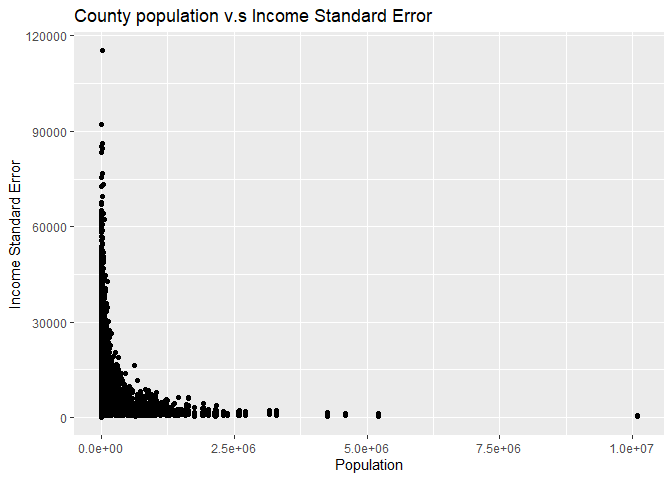
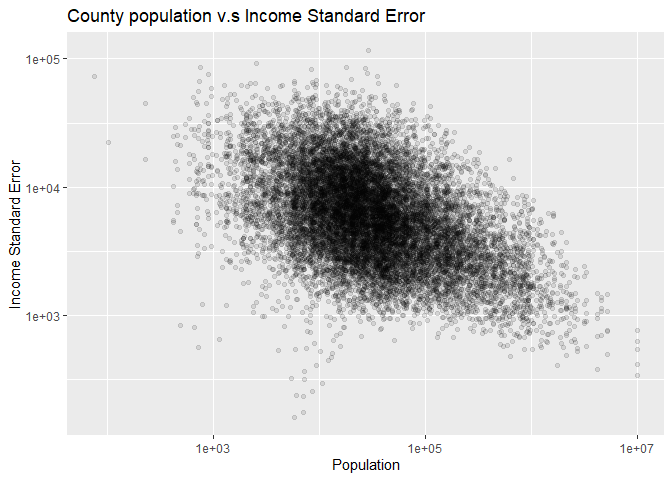
revised challenge 9

diff --git a/challenges/c09-income-assignment.md b/challenges/c09-income-assignment.md
@@ -583,7 +583,9 @@ and uncertainty.
 ``` r
 df_data %>%
   ggplot() +
-  geom_point(mapping = aes(x = population_estimate, y = income_SE)) +
+  geom_point(mapping = aes(x = population_estimate, y = income_SE), alpha=0.1) +
+  scale_y_log10() + 
+  scale_x_log10() +
   ggtitle("County population v.s Income Standard Error") + 
   labs(
     x = "Population",
@@ -601,13 +603,14 @@ df_data %>%
     we see. We see an exponential decay relationship where the higher
     the population, the rate of the decline of income SE increases.
     First of all, the equation for Standard Error is SE =
-    Standard_deviation/sqrt(n) with n = number of samples. With
-    population (n) increasing, the SE curve would take this shape. This
-    trend makes senses because we have more data in larger counties when
-    we calculate mean household income. More data means that we are able
-    to reduce uncertainty more in our calculation. If we have a
-    population with less people, there’s a higher chance that a few
-    outline data points would increase standard error.
+    Standard_deviation/sqrt(n) with n = number of samples. This is
+    assuming that the sample size is proportional to the population
+    size. With population (n) increasing, the SE curve would take this
+    shape if sample sizes are larger for larger populations. More data
+    means that we are able to reduce uncertainty more in our
+    calculation. If we have a population with less people, there’s a
+    higher chance that a few outline data points would increase standard
+    error.
 - What does this *overall* trend tell you about the relative ease of
   studying small vs large counties?
   - Because standard error is lower with counties with larger
